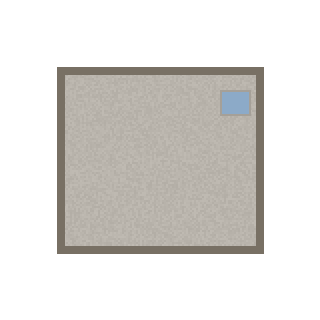
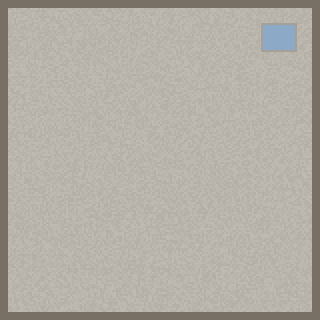
fix: player scale 1:1 for 320px sprites, buildings fill full tile with visible borders

diff --git a/tools/generate_procedural.py b/tools/generate_procedural.py
@@ -194,56 +194,53 @@ def _draw_roof_tiles(draw, x0, y0, x1, y1, color, dark_color, tile_h=12):
             draw.line([(tx, row_y + tile_h//2), (tx + tile_h, row_y + tile_h//2)], fill=dark_color, width=1)
 
 def _building_base(w, h, roof_color, roof_dark, edge_color, roof_style="flat"):
-    """Create a building footprint with roof, transparent bg."""
-    pad = 40
+    """Create a building tile — fills ENTIRE tile, thick wall border for visibility."""
     img = Image.new("RGBA", (TILE, TILE), (0, 0, 0, 0))
     draw = ImageDraw.Draw(img)
     
-    cx, cy = TILE // 2, TILE // 2
-    x0, y0 = cx - w//2, cy - h//2
-    x1, y1 = cx + w//2, cy + h//2
+    border = 8  # thick visible wall border
+    x0, y0 = 0, 0
+    x1, y1 = TILE - 1, TILE - 1
     
-    # Building outline/edge (walls visible at edges from top-down)
-    draw.rectangle([x0-3, y0-3, x1+3, y1+3], fill=edge_color)
+    # Outer wall border — clearly visible
+    draw.rectangle([x0, y0, x1, y1], fill=edge_color)
+    # Inner roof area
+    rx0, ry0 = x0 + border, y0 + border
+    rx1, ry1 = x1 - border, y1 - border
     
     if roof_style == "tiled":
-        draw.rectangle([x0, y0, x1, y1], fill=roof_color)
-        _draw_roof_tiles(draw, x0, y0, x1, y1, roof_color, roof_dark)
+        draw.rectangle([rx0, ry0, rx1, ry1], fill=roof_color)
+        _draw_roof_tiles(draw, rx0, ry0, rx1, ry1, roof_color, roof_dark)
     elif roof_style == "pitched":
-        draw.rectangle([x0, y0, x1, y1], fill=roof_color)
-        _draw_roof_tiles(draw, x0, y0, x1, y1, roof_color, roof_dark)
+        draw.rectangle([rx0, ry0, rx1, ry1], fill=roof_color)
+        _draw_roof_tiles(draw, rx0, ry0, rx1, ry1, roof_color, roof_dark)
         # ridge line
-        draw.line([(cx, y0+10), (cx, y1-10)], fill=roof_dark, width=3)
+        cx = TILE // 2
+        draw.line([(cx, ry0+10), (cx, ry1-10)], fill=roof_dark, width=3)
     elif roof_style == "flat":
-        draw.rectangle([x0, y0, x1, y1], fill=roof_color)
-        noise_fill(draw, x0, y0, x1, y1, roof_color, variance=6)
-        # flat roof edge lip
-        draw.rectangle([x0, y0, x1, y0+4], fill=edge_color)
-        draw.rectangle([x0, y1-4, x1, y1], fill=edge_color)
-        draw.rectangle([x0, y0, x0+4, y1], fill=edge_color)
-        draw.rectangle([x1-4, y0, x1, y1], fill=edge_color)
+        draw.rectangle([rx0, ry0, rx1, ry1], fill=roof_color)
+        noise_fill(draw, rx0, ry0, rx1, ry1, roof_color, variance=6)
     elif roof_style == "glass":
-        draw.rectangle([x0, y0, x1, y1], fill=roof_color)
+        draw.rectangle([rx0, ry0, rx1, ry1], fill=roof_color)
         # glass panel grid
-        for gx in range(x0+8, x1-8, 24):
-            draw.line([(gx, y0), (gx, y1)], fill=edge_color, width=2)
-        for gy in range(y0+8, y1-8, 24):
-            draw.line([(x0, gy), (x1, gy)], fill=edge_color, width=2)
-        # slight variation in panels
-        for gx in range(x0+8, x1-8, 24):
-            for gy in range(y0+8, y1-8, 24):
+        for gx in range(rx0+8, rx1-8, 24):
+            draw.line([(gx, ry0), (gx, ry1)], fill=edge_color, width=2)
+        for gy in range(ry0+8, ry1-8, 24):
+            draw.line([(rx0, gy), (rx1, gy)], fill=edge_color, width=2)
+        for gx in range(rx0+8, rx1-8, 24):
+            for gy in range(ry0+8, ry1-8, 24):
                 if random.random() > 0.6:
                     draw.rectangle([gx+1, gy+1, gx+22, gy+22], fill=PAL["blue_glass_dk"])
     
-    return img, draw, (x0, y0, x1, y1)
+    return img, draw, (rx0, ry0, rx1, ry1)
 
 def gen_wall():
     """Apartment — flat concrete roof with water tank."""
     img, draw, (x0, y0, x1, y1) = _building_base(200, 180, PAL["concrete"], PAL["concrete_dk"], PAL["asphalt_dark"], "flat")
     # water tank
-    tx, ty = x1 - 40, y0 + 20
-    draw.rectangle([tx, ty, tx+30, ty+25], fill=PAL["concrete_dk"])
-    draw.rectangle([tx+2, ty+2, tx+28, ty+23], fill=PAL["blue_glass"])
+    tx, ty = x1 - 50, y0 + 15
+    draw.rectangle([tx, ty, tx+35, ty+28], fill=PAL["concrete_dk"])
+    draw.rectangle([tx+2, ty+2, tx+33, ty+26], fill=PAL["blue_glass"])
     return img
 
 def gen_wall_brick():
@@ -255,8 +252,8 @@ def gen_wall_wood():
     """Shophouse — corrugated metal roof."""
     img, draw, (x0, y0, x1, y1) = _building_base(160, 120, PAL["metal_grey"], PAL["asphalt_dark"], PAL["wood_dark"], "flat")
     # corrugation lines
-    for gy in range(y0+5, y1-5, 6):
-        draw.line([(x0+5, gy), (x1-5, gy)], fill=PAL["concrete_dk"], width=1)
+    for gy in range(y0+3, y1-3, 6):
+        draw.line([(x0+3, gy), (x1-3, gy)], fill=PAL["concrete_dk"], width=1)
     return img
 
 def gen_roof():
@@ -265,27 +262,12 @@ def gen_roof():
     return img
 
 def gen_wall_school():
-    """School — L-shaped flat roof."""
-    img = Image.new("RGBA", (TILE, TILE), (0, 0, 0, 0))
-    draw = ImageDraw.Draw(img)
+    """School — cream flat roof with border."""
+    img, draw, (x0, y0, x1, y1) = _building_base(200, 180, PAL["cream"], PAL["sand"], PAL["sand"], "flat")
+    # courtyard marking
     cx, cy = TILE//2, TILE//2
-    # L-shape: horizontal bar + vertical bar
-    # horizontal
-    hx0, hy0 = cx-110, cy-80
-    hx1, hy1 = cx+110, cy+10
-    draw.rectangle([hx0-3, hy0-3, hx1+3, hy1+3], fill=PAL["sand"])
-    draw.rectangle([hx0, hy0, hx1, hy1], fill=PAL["cream"])
-    noise_fill(draw, hx0, hy0, hx1, hy1, PAL["cream"], variance=5)
-    # vertical
-    vx0, vy0 = cx-110, cy+10
-    vx1, vy1 = cx-30, cy+90
-    draw.rectangle([vx0-3, vy0-3, vx1+3, vy1+3], fill=PAL["sand"])
-    draw.rectangle([vx0, vy0, vx1, vy1], fill=PAL["cream"])
-    noise_fill(draw, vx0, vy0, vx1, vy1, PAL["cream"], variance=5)
-    # edge lips
-    for rect in [(hx0, hy0, hx1, hy1), (vx0, vy0, vx1, vy1)]:
-        draw.rectangle([rect[0], rect[1], rect[2], rect[1]+3], fill=PAL["sand"])
-        draw.rectangle([rect[0], rect[3]-3, rect[2], rect[3]], fill=PAL["sand"])
+    draw.rectangle([cx-30, cy-30, cx+30, cy+30], fill=PAL["park_light"])
+    draw.rectangle([cx-28, cy-28, cx+28, cy+28], outline=PAL["sand"], width=2)
     return img
 
 def gen_wall_office():
@@ -293,19 +275,16 @@ def gen_wall_office():
     img, draw, (x0, y0, x1, y1) = _building_base(220, 200, PAL["blue_glass"], PAL["blue_glass_dk"], PAL["concrete_dk"], "glass")
     # AC units
     for i in range(3):
-        ax = x0 + 20 + i * 60
-        ay = y0 + 15
-        draw.rectangle([ax, ay, ax+25, ay+18], fill=PAL["concrete_dk"])
-        draw.ellipse([ax+8, ay+4, ax+18, ay+14], fill=PAL["asphalt_dark"])
+        ax = x0 + 15 + i * 80
+        ay = y0 + 12
+        if ax + 25 < x1:
+            draw.rectangle([ax, ay, ax+25, ay+18], fill=PAL["concrete_dk"])
+            draw.ellipse([ax+8, ay+4, ax+18, ay+14], fill=PAL["asphalt_dark"])
     return img
 
 def gen_wall_bungalow():
     """Bungalow — warm tiled pitched roof."""
     img, draw, (x0, y0, x1, y1) = _building_base(200, 170, PAL["terracotta"], PAL["brick"], PAL["cream"], "pitched")
-    # small porch overhang at bottom
-    px0, py0 = TILE//2-30, y1+3
-    draw.rectangle([px0, py0, px0+60, py0+15], fill=PAL["wood"])
-    draw.rectangle([px0+2, py0+2, px0+58, py0+13], fill=PAL["wood_dark"])
     return img
 
 
